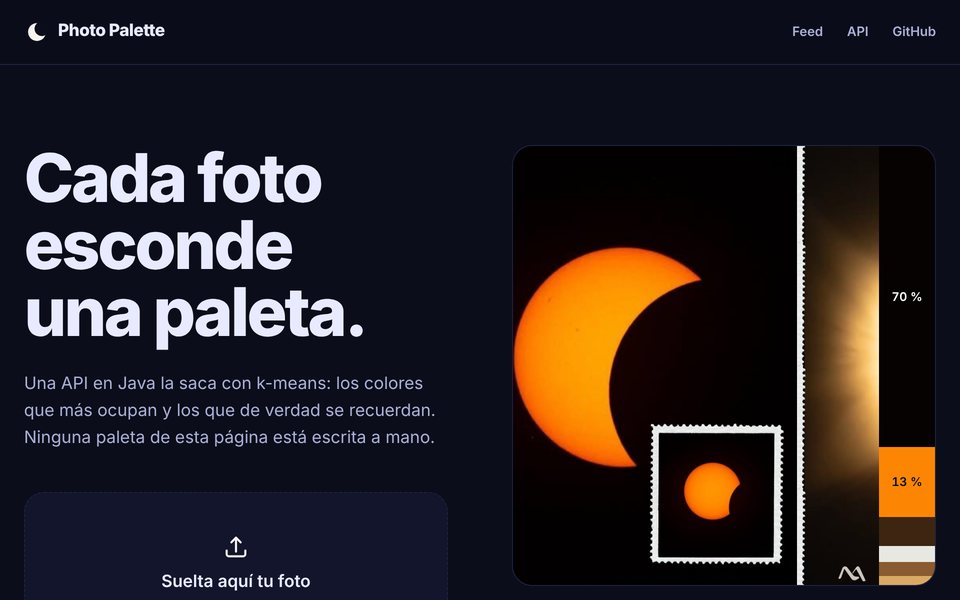
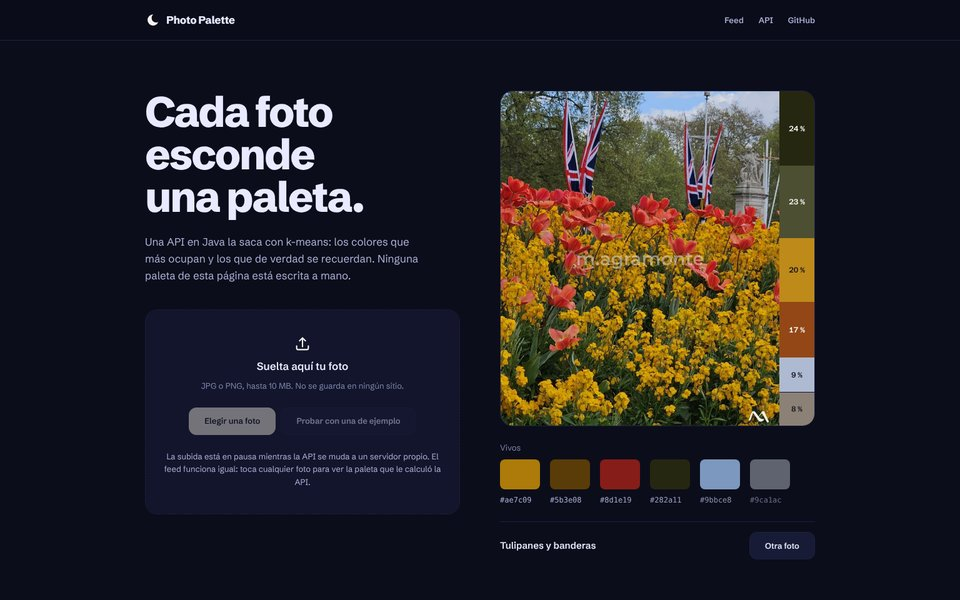
Captura nueva de Photo Palette y Dependabot
La tarjeta de Photo Palette enseñaba el eclipse, que ya no está en el
feed. La captura nueva es la portada actual, con los tulipanes, y el texto
alternativo en los dos idiomas la describe.

Dependabot vigila las dependencias de npm cada semana y las Actions cada
mes; las menores de desarrollo llegan juntas en un solo PR.

diff --git a/src/data/proyectos.js b/src/data/proyectos.js
@@ -90,8 +90,8 @@ export const proyectos = [
     },
     imagen: `${import.meta.env.BASE_URL}img/photo-palette.jpg`,
     imagenAlt: {
-      es: "Portada de Photo Palette: el titular y la caja para subir una foto a la izquierda; a la derecha, un eclipse con una regla de color que mide lo que ocupa cada tono.",
-      en: "Photo Palette home page: the headline and the photo upload box on the left; on the right, an eclipse with a color ruler showing how much of the photo each shade takes up.",
+      es: "Portada de Photo Palette: el titular y la caja para subir una foto a la izquierda; a la derecha, unos tulipanes con una regla de color que mide lo que ocupa cada tono y sus colores vivos debajo.",
+      en: "Photo Palette home page: the headline and the photo upload box on the left; on the right, a bed of tulips with a color ruler showing how much of the photo each shade takes up, and its vivid colors below.",
     },
     enlaceTexto: { es: "Ver demo", en: "View demo" },
     // La API no está publicada mientras se muda al VPS (salió de Render en
